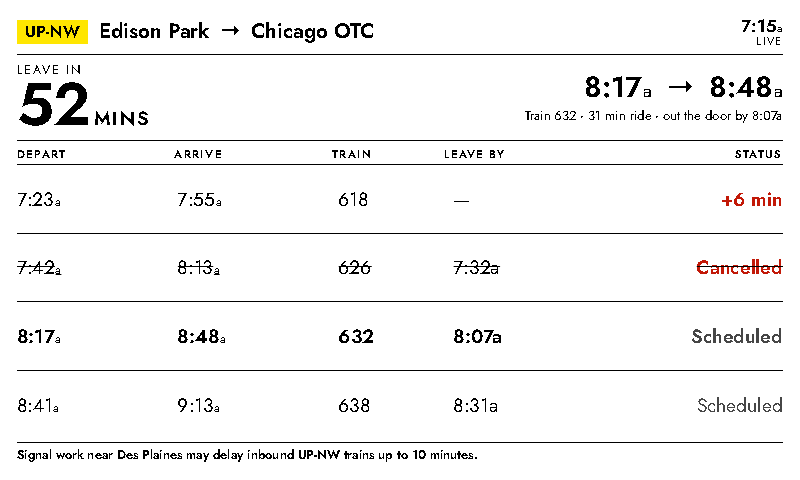
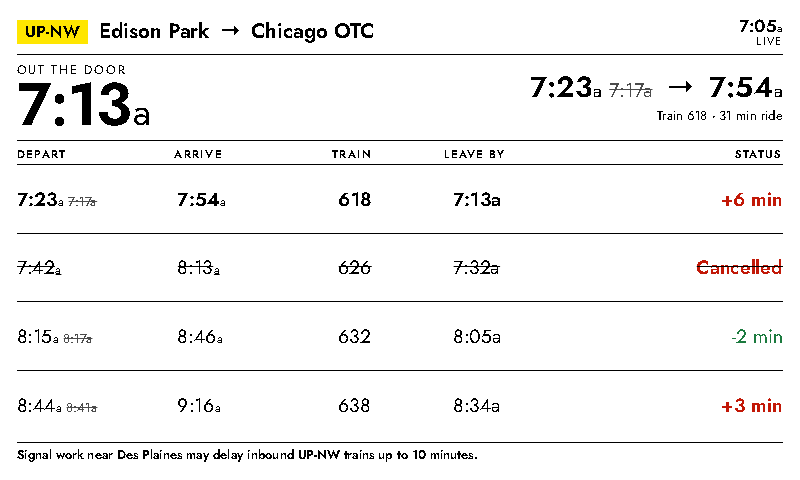
add strikethough with update time if delay and moved the out the door time to main top left display

diff --git a/src/plugins/metra/render/metra.html b/src/plugins/metra/render/metra.html
@@ -21,18 +21,21 @@
     <div class="hero-left">
       <div class="hero-label">{{ hero.label }}</div>
       <div class="hero-value">
-        {{ hero.value }}{% if hero.unit %}<span class="hero-unit">{{ hero.unit }}</span>{% endif %}
+        {%- if hero.time -%}
+        {{ hero.time.hm }}<span class="ap">{{ hero.time.ap }}</span>
+        {%- else -%}
+        {{ hero.text }}
+        {%- endif -%}
       </div>
     </div>
     <div class="hero-right">
       <div class="hero-times">
-        <span class="hero-depart">{{ featured.depart.hm }}<span class="ap">{{ featured.depart.ap }}</span></span>
+        <span class="hero-depart">{{ featured.depart.hm }}<span class="ap">{{ featured.depart.ap }}</span>{% if featured.show_scheduled %}<span class="was">{{ featured.scheduled_depart.hm }}{{ featured.scheduled_depart.ap }}</span>{% endif %}</span>
         <span class="hero-arrow">&rarr;</span>
         <span class="hero-arrive">{{ featured.arrive.hm }}<span class="ap">{{ featured.arrive.ap }}</span></span>
       </div>
       <div class="hero-detail">
         Train {{ featured.train }} &middot; {{ featured.duration }} min ride
-        {%- if walk_minutes %} &middot; out the door by {{ featured.leave_at.hm }}{{ featured.leave_at.ap }}{% endif %}
       </div>
     </div>
   </div>
@@ -47,7 +50,7 @@
     </div>
     {% for row in departures %}
     <div class="table-row{% if row.featured %} is-featured{% endif %}{% if row.cancelled %} is-cancelled{% endif %}">
-      <span class="col-depart">{{ row.depart.hm }}<span class="ap">{{ row.depart.ap }}</span></span>
+      <span class="col-depart">{{ row.depart.hm }}<span class="ap">{{ row.depart.ap }}</span>{% if row.show_scheduled %}<span class="was">{{ row.scheduled_depart.hm }}{{ row.scheduled_depart.ap }}</span>{% endif %}</span>
       <span class="col-arrive">{{ row.arrive.hm }}<span class="ap">{{ row.arrive.ap }}</span></span>
       <span class="col-train">{{ row.train }}</span>
       {% if not narrow %}<span class="col-leave">{% if row.leave_in >= 0 %}{{ row.leave_at.hm }}{{ row.leave_at.ap }}{% else %}&mdash;{% endif %}</span>{% endif %}

diff --git a/src/plugins/metra/render/metra.css b/src/plugins/metra/render/metra.css
@@ -21,6 +21,17 @@
     margin-left: 0.06em;
 }
 
+/* The original scheduled time, kept alongside a delayed prediction. The
+   strikethrough carries the meaning, so this stays close to full opacity —
+   light greys dither badly on e-ink at small sizes. */
+.was {
+    font-size: 0.68em;
+    font-weight: normal;
+    text-decoration: line-through;
+    opacity: 0.7;
+    margin-left: 0.35em;
+}
+
 /* Header ---------------------------------------------------------------- */
 
 .board-header {
@@ -103,14 +114,6 @@
     letter-spacing: -0.02em;
 }
 
-.hero-unit {
-    font-size: 0.32em;
-    font-weight: bold;
-    text-transform: uppercase;
-    letter-spacing: 0.1em;
-    margin-left: 0.25em;
-}
-
 .hero-right {
     flex: 1;
     min-width: 0;
@@ -133,7 +136,6 @@
     padding-top: 0.25em;
 }
 
-.hero-cancelled .hero-value,
 .hero-cancelled .hero-times {
     text-decoration: line-through;
 }

diff --git a/src/plugins/metra/metra.py b/src/plugins/metra/metra.py
@@ -169,6 +169,9 @@ class Metra(BasePlugin):
             "leave_at": self._format_time(leave_at),
             "status": status,
             "status_kind": status_kind,
+            # A cancelled row is struck through in full, so the original time
+            # would only add noise there.
+            "show_scheduled": bool(delay) and not departure["cancelled"],
             "cancelled": departure["cancelled"],
             "realtime": departure["realtime"],
             "delay": delay,
@@ -177,22 +180,22 @@ class Metra(BasePlugin):
 
     @staticmethod
     def _build_hero(featured, walk_minutes):
-        """Describes the headline 'when do I need to leave' state."""
+        """Describes the headline 'when do I need to leave' state.
+
+        Shows a wall-clock time rather than a countdown so the board stays
+        accurate between refreshes.
+        """
         if featured["cancelled"]:
-            return {"kind": "cancelled", "value": "\u2014", "unit": "", "label": "Next train cancelled"}
+            return {"kind": "cancelled", "text": "\u2014", "label": "Next train cancelled"}
 
-        if featured["leave_in"] > 0:
-            return {
-                "kind": "leave_in",
-                "value": featured["leave_in"],
-                "unit": "min" if featured["leave_in"] == 1 else "mins",
-                "label": "Leave in",
-            }
+        if featured["leave_in"] < 0:
+            return {"kind": "leave_now", "text": "Now", "label": "Head out"}
 
-        if walk_minutes > 0:
-            return {"kind": "leave_now", "value": "Now", "unit": "", "label": "Head out"}
-
-        return {"kind": "leave_now", "value": "Now", "unit": "", "label": "Boarding"}
+        return {
+            "kind": "leave_at",
+            "time": featured["leave_at"],
+            "label": "Out the door" if walk_minutes else "Departs",
+        }
 
     def _load_line_options(self):
         """Builds the line/station dropdown data for the settings page."""

diff --git a/src/plugins/metra/README.md b/src/plugins/metra/README.md
@@ -1,8 +1,8 @@
 # Metra
 
 A commuter departure board for any Metra trip: the next few trains between two
-stations, how long the ride takes, and a countdown telling you when to walk out
-the door.
+stations, how long the ride takes, and the time you need to be out the door to
+catch the next one.
 
 ![Metra departure board](../../../docs/images/metra.png)
 
@@ -27,13 +27,18 @@ are fast and cheap even on a Pi Zero.
 |---|---|
 | Line | Any of the 11 Metra lines |
 | From / To | Stations on that line. Only trips that serve the origin *before* the destination are shown, so direction is inferred automatically. |
-| Minutes to station | Your walk/drive time. Drives the "leave in" countdown and the *Leave by* column. |
+| Minutes to station | Your walk/drive time. Subtracted from the departure to produce the headline "out the door" time and the *Leave by* column. Set it to 0 and the headline becomes the departure time itself. |
 | Trains to show | 3–8 upcoming departures |
 | Use live delays | Applies realtime trip updates (needs `METRA_API_KEY`) |
 | Show service alerts | Displays active alerts for the line (needs `METRA_API_KEY`) |
 
-Status values: `Scheduled` (no realtime data yet), `On time`, `+N min`, and
-`Cancelled`. Cancelled trains are struck through and skipped by the countdown.
+Status values: `Scheduled` (no realtime data yet), `On time`, `+N min`, `-N min`,
+and `Cancelled`. When a train is delayed, the *Depart* column shows the predicted
+time with the original struck through beside it. Cancelled trains are struck
+through and skipped when picking the headline train.
+
+All times are wall-clock rather than relative, so the board does not go stale
+between refreshes.
 
 ## Optional: live delays
 
